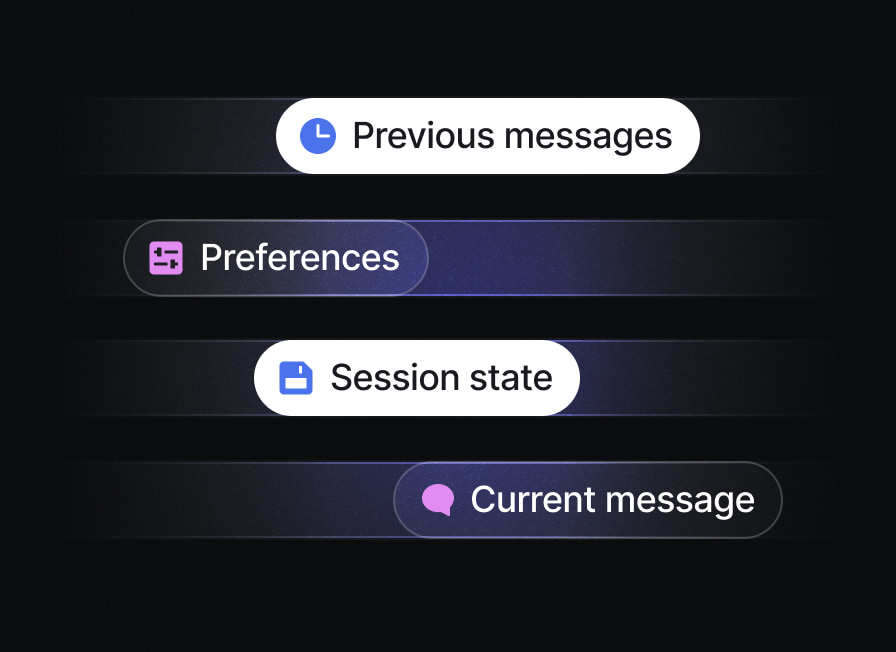
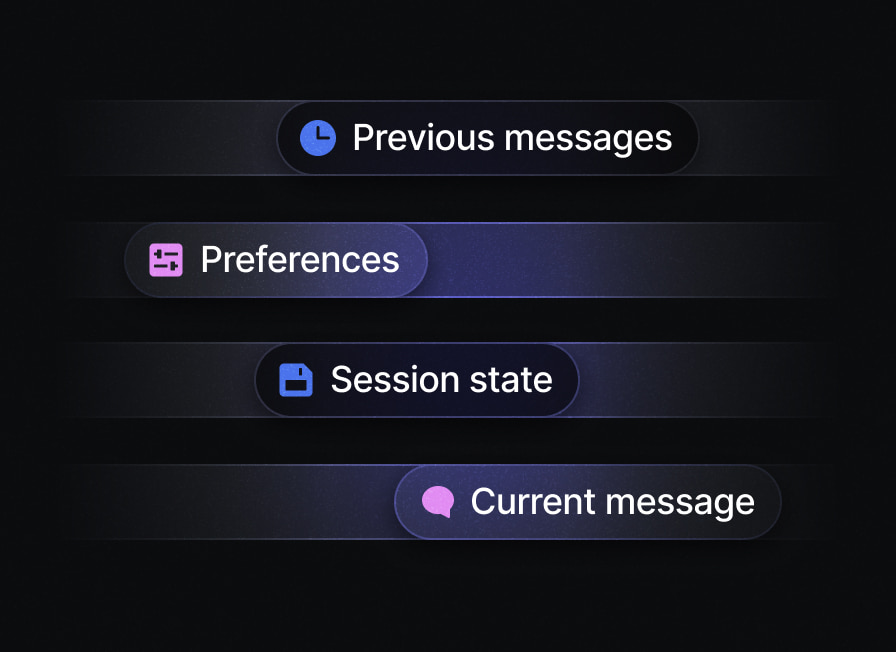
chore: small bento adjustments

diff --git a/src/components/pages/home/novu-notify.tsx b/src/components/pages/home/novu-notify.tsx
@@ -133,13 +133,12 @@ function NovuNotify({
             </div>
 
             {featuredItem.liveInbox ? (
-              <div className="notify-live-inbox hidden md:absolute md:inset-0 md:z-20 md:block">
-                <InboxComponent
-                  animateEntrance={false}
-                  className="absolute top-11 left-[24.5rem] lg:top-9 lg:left-[27rem] xl:top-8 xl:left-[30.5rem]"
-                  showThemeSwitcher={false}
-                />
-              </div>
+              <InboxComponent
+                animateEntrance={false}
+                className="notify-live-inbox zoom-[0.965] md:zoom-[0.9] lg:zoom-[1.111] xl:zoom-[0.98] absolute top-13 left-104 m-0 hidden md:block lg:right-14 lg:left-auto lg:max-[68rem]:left-112 xl:left-137"
+                themeTabsClassName="absolute top-13 left-104 m-0 hidden md:flex lg:right-14 lg:left-auto lg:max-[68rem]:left-112 xl:left-137"
+                variant="home"
+              />
             ) : featuredItem.image ? (
               <div
                 className={cn(
@@ -158,7 +157,6 @@ function NovuNotify({
                   quality={100}
                   sizes={featuredItem.imageSizes}
                   aria-hidden="true"
-                  draggable
                 />
               </div>
             ) : null}
@@ -187,7 +185,7 @@ function NovuNotify({
                     >
                       <Image
                         className={cn(
-                          "absolute h-auto max-w-none cursor-grab active:cursor-grabbing",
+                          "pointer-events-none absolute h-auto max-w-none",
                           item.imageClassName
                         )}
                         src={item.image}
@@ -195,13 +193,12 @@ function NovuNotify({
                         sizes={item.imageSizes}
                         quality={100}
                         aria-hidden="true"
-                        draggable
                       />
                     </div>
                   ) : item.image ? (
                     <Image
                       className={cn(
-                        "absolute h-auto max-w-none cursor-grab active:cursor-grabbing",
+                        "pointer-events-none absolute h-auto max-w-none",
                         item.imageClassName
                       )}
                       src={item.image}
@@ -209,7 +206,6 @@ function NovuNotify({
                       sizes={item.imageSizes}
                       quality={100}
                       aria-hidden="true"
-                      draggable
                     />
                   ) : null}
 

diff --git a/src/components/pages/home/novu-connect.tsx b/src/components/pages/home/novu-connect.tsx
@@ -132,7 +132,7 @@ function NovuConnect({
                     <>
                       <Image
                         className={cn(
-                          "absolute h-auto cursor-grab active:cursor-grabbing",
+                          "pointer-events-none absolute h-auto",
                           item.imageClassName
                         )}
                         src={item.image}
@@ -140,7 +140,6 @@ function NovuConnect({
                         sizes={item.imageSizes}
                         quality={100}
                         aria-hidden="true"
-                        draggable
                       />
                       {item.mascotEyes && (
                         <ConnectMascotEyes className={item.imageClassName} />

diff --git a/src/styles/magic-bento.css b/src/styles/magic-bento.css
@@ -3,7 +3,7 @@
 
 .magic-bento,
 .magic-bento-spotlight {
-  --mb-glow-rgb: 115 89 231;
+  --mb-glow-rgb: 67 82 225;
 }
 
 .magic-bento-card {
